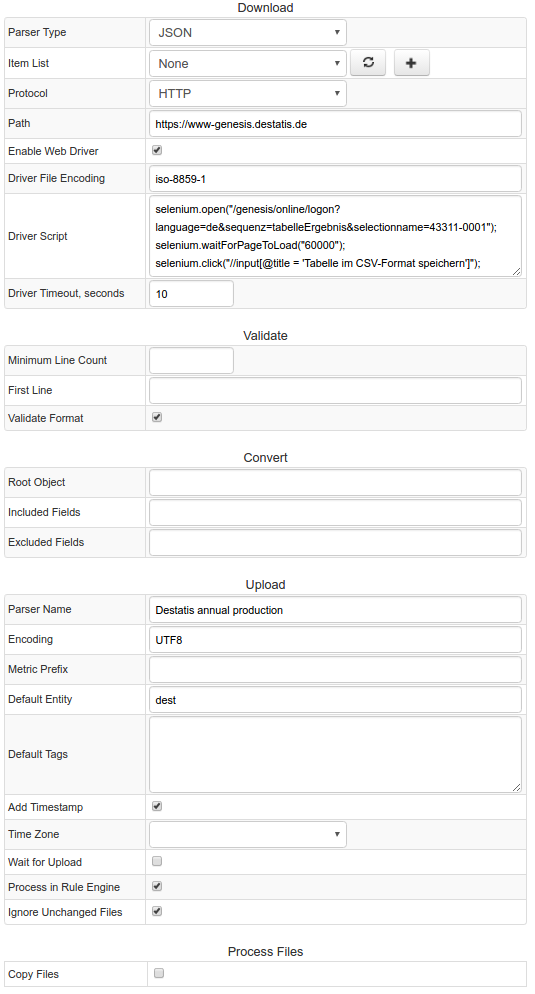
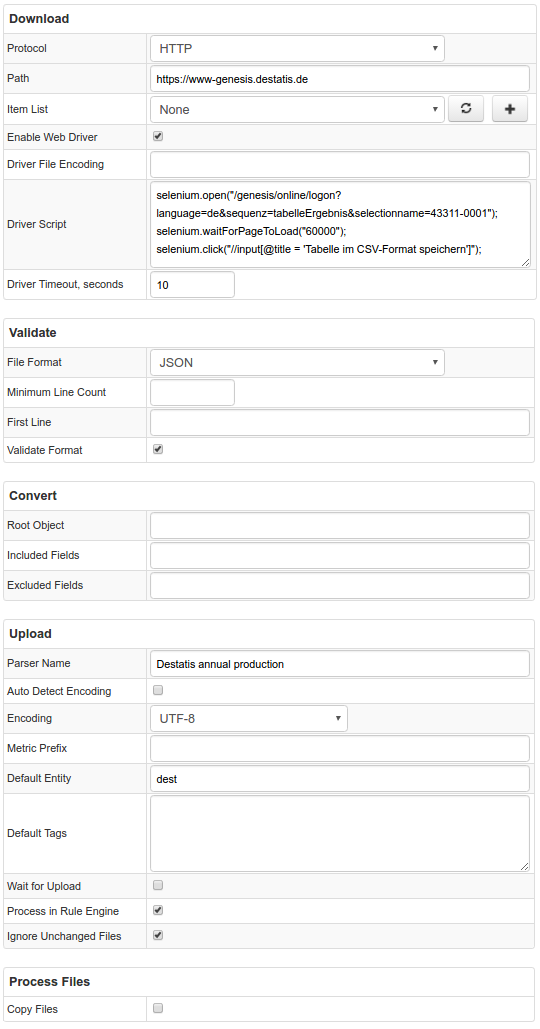
changed order and replaced screenshot due to latest changes

diff --git a/jobs/file.md b/jobs/file.md
@@ -11,31 +11,30 @@ Use the table below to perform File job configuration.
 
 | **Field**	          | **Description** |
 |:---------------|:------------|
-| Parser Type | Downloaded file format: CSV, JSON or XML. |
-| Item List | Name of the collection you want to use.  |
 | Protocol | Protocol used to get files. May be one of: FILE, FTP, SFTP, SCP, HTTP, or predefined HTTP Pool.
-| HTTP Pool | Relative path to the file if HTTP Pool is selected or full URL in case HTTP Pool is set to NONE. |
-| Path | Path to CSV or JSON target files located on remote or local file system from which they will be read. <br> Path to files on remote systems can be set using a relative path if HTTP Pool is selected or full URL in case HTTP Pool is set to NONE. <br>Path may represent a location that can be accesed via FTP or SSH and be set using URI starting with `ftp://`, `sftp://`, or `scp://`, then it should provide credentials, hostname, and absolute path to files on the remote host.  <br>Path to files on the local file system should start with `file://` and contain the absolute path. <br> File path can include `${TIME}` placeholders: `file:///opt/app/data-${TIME("previous_day", "yyyy-MM-dd")}.csv` <br> File path supports collections (multiple files): `file:///opt/app/data-${ITEM}.csv` <br> File path can match multiple files, all of which would need to be uploaded. <br> The wildcard characters `?` and `*` can be used to represent a single or multiple wildcard characters. <br>See examples below this table. |
+| HTTP Pool | Name of one of the configured HTTP pools that you want to use. |
+| Path | Path to CSV or JSON target files located on remote or local file system from which they will be read. <br> Path to files on remote systems can be set using relative path if HTTP Pool is selected as Protocol, or full URL in case HTTP Protocol is chosen. <br>Path may represent a location that can be accessed via FTP, SFTP or SCP and be set using URI containing credentials, hostname, and absolute path to files on the remote host. Protocol FTP, SFTP or SCP should be chosen respectfully. <br>Path to files on the local filesystem should contain the absolute path, FILE protocol should be chosen. <br> File path can include `${TIME}` placeholders: `file:///opt/app/data-${TIME("previous_day", "yyyy-MM-dd")}.csv` <br> File path supports collections (multiple files): `file:///opt/app/data-${ITEM}.csv` <br> File path can match multiple files, all of which would need to be uploaded. <br> The wildcard characters `?` and `*` can be used to represent a single or multiple wildcard characters. <br>See examples below this table. |
+| Item List | Name of the collection you want to use.  |
 | Enable Web Driver | Select the checkbox to enable Web Driver.  |
 | Driver File Encoding | Encoding of the file that is requested with the script.  |
 | Driver Script | Selenium script.  |
 | Driver Timeout, seconds |  Script timeout in seconds. |
+| File Format | Downloaded file format: CSV, JSON, or XML. |
 | Minimum Line Count | Minimum amount of lines in the target file. If the target file contains fewer lines than indicated, data will not be sent into ATSD. |
 | First Line | Characters or text in the first line. It is used to identify the first line of the target file. First Line field support ${TIME} placeholders, for example: `# Effective Data ${TIME("previous_day", "dd.MM.yyyy")}`. If text or characters are not found in the first line, the data will not be sent to ATSD. |
-| Validate Format | Validates the format of the CSV or JSON file. |
+| Validate Format | Validates the format of the JSON file. |
 | Root Objects | Specify expressions in the JsonPath format to define a root element. Property/Series will be formed basing on elements from these expressions. |
 | Included Fields | List of JSON fields that are converted into CSV format and sent to ATSD. All other fields except Included will be ignored. The list can include both numeric and string fields, in which case string columns should be processed as series tags or property keys/tags by the server using CSV parser configuration. |
 | Excluded Fields | List of JSON fields that are excluded from CSV converter. Excluded Fields are ignored if Included Fields are specified. Only numeric fields will be sent to ATSD after Excluded Fields filter is applied to JSON object. |
 | Parser Name | Configuration name. For more information, see [Parser Configuration Guide](https://axibase.com/products/axibase-time-series-database/writing-data/csv/#parser "Parser Configuration"). |
+| Auto Detect Encoding | If enabled, Collector will try to guess file encoding based on its contents |
 | Encoding | Character encoding of target files. |
 | Metric Prefix | Prefix added to metric names. It is normally used to identify and group the metrics. |
 | Default Entity | Default entity under which the metrics and data will be stored in ATSD. |
 | Default Tags | Assign predefined tags to all series. |
-| Add Timestamp | When set to true, uses current time (time at the moment the data is sent to ATSD) as timestamp for the metrics. If set to false, then timestamp is taken from the target files, as set in the ATSD Parser Configuration. |
-| Time Zone | Time zone in which the data is collected.  |
 | Wait for Upload | Wait for ATSD server to finish processing of the uploaded file. |
 | Process in Rule Engine | Process incoming data in [ATSD Rule Engine](https://axibase.com/products/axibase-time-series-database/rule-engine/ "Rule Engine"). | 
-| Ignore Unchaged File | Do not copy files if they have not changed since the last upload. |
+| Ignore Unchanged File | Do not copy files if they have not changed since the last upload. |
 | Delete File on Upload | Source files will be deleted if ATSD returns 200 code (OK). This setting only applies to configurations where the Path points to files on the local file system (Path starts with `file://`).|
 | Copy Files | Flag to determine if source files should be put into given directory after successful upload to ATSD |
 | Success Directory | If a file is uploaded successfully (uploaded into ATSD and Parsed successfully), it will be copied to this directory. <br>If the Success Directory is specified but does not exist, it will be created. <br> If Copy Files is enabled and Success Directory field is empty, the following path will be used: `$AXIBASE_COLLECTOR_HOME/files/$JOB_ID/$TASK_ID/success`.<br> Success Directory field supports `${TIME}` placeholders like: `/opt/collector/file/errors/${TIME("now", "yyyy-MM-dd/HH:mm:ss")}/`. <br>To distinguish between files with identical names a time prefix will be added, for example: `20151130_121212_345_{original_file_name}.csv` <br>Success Directory is an independent setting from Delete on Upload. |
